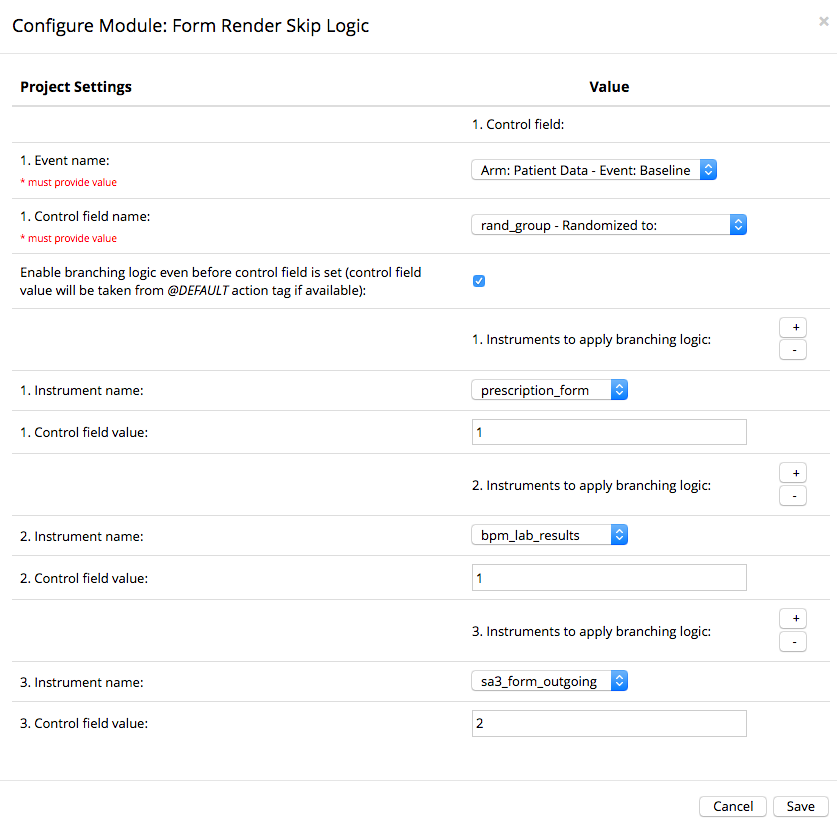
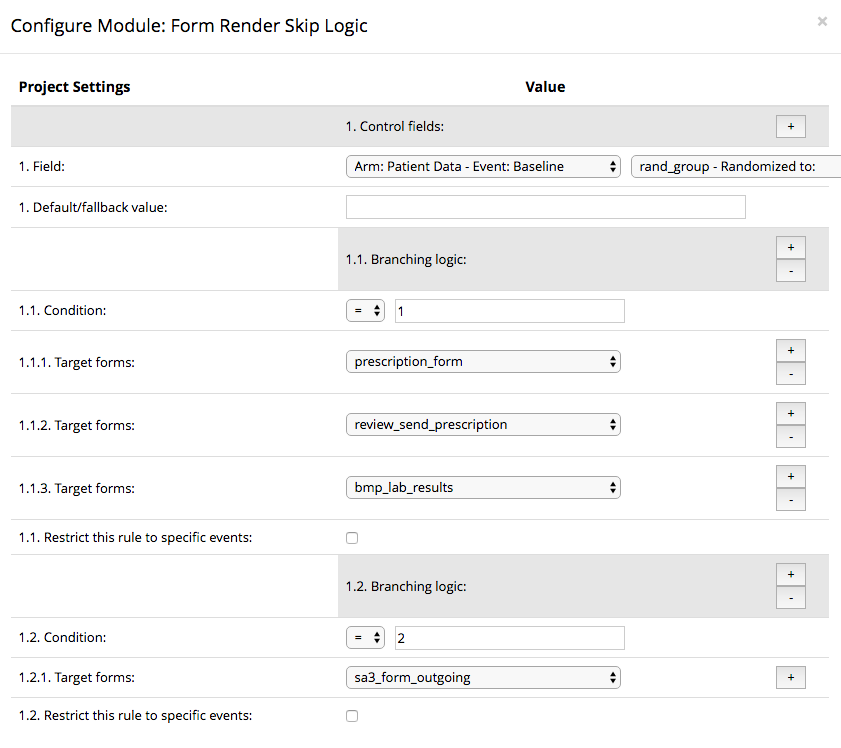
Update description and documentation to reflect the support for multiple control fields

diff --git a/README.md b/README.md
@@ -1,31 +1,47 @@
 # REDCap Form Render Skip Logic (FRSL)
 
-This REDCap module hides and shows instruments based on the value of a single field on a single form - i.e. a branching logic for instruments.
+This REDCap module hides and shows instruments based on the values of REDCap form fields  i.e. a branching logic for instruments. 
 
 ## Motivation
-The original use case of this tool was to facilitate a data entry workflow specific to acute brain injury diagnoses, but the tools is generalized to support the hiding (and showing) of any number of forms based on a field value on one form.
 
-![venn diagram of test project forms](img/venn_diagram_of_test_project_forms.png)
+The original use case of this tool was to facilitate a data entry workflow specific to acute brain injury diagnoses, but the tool is generalized to support the hiding (and showing) of any number of forms based on a field value. Multiple control fields can be defined to control the display of non-overlapping sets of forms. Here is an example based loosely on a multi-site trial:
 
-See the functional specification at [https://docs.google.com/document/d/1Ej7vCNpKOrC6X9KVpkZkHeY0v2VqQXrjuMIBQtbj1bw/edit#](https://docs.google.com/document/d/1Ej7vCNpKOrC6X9KVpkZkHeY0v2VqQXrjuMIBQtbj1bw/edit) for functional details.
+![venn diagram of test project forms](img/venn_diagram_of_forms_controls_and_conditions.png)
+
+See the original functional specification at [https://docs.google.com/document/d/1Ej7vCNpKOrC6X9KVpkZkHeY0v2VqQXrjuMIBQtbj1bw/edit#](https://docs.google.com/document/d/1Ej7vCNpKOrC6X9KVpkZkHeY0v2VqQXrjuMIBQtbj1bw/edit) for functional details.
 
 ## Prerequisites
-- REDCap >= 8.0.3
+- REDCap >= 8.4.3
 
-## Installation
-- Clone this repo into to `<redcap-root>/modules/form_render_skip_logic_v<version_number>`.
-- Go to **Control Center > Manage External Modules** and enable Form Render Skip Logic.
+## Easy Installation
+- Obtain this module from the Consortium [REDCap Repo] (https://redcap.vanderbilt.edu/consortium/modules/index.php) from the control center.
+
+## Manual Installation
+- Clone this repo into `<redcap-root>/modules/form_render_skip_logic_v0.0.0`.
+- Go to **Control Center > External Modules** and enable Form Render Skip Logic.
 - For each project you want to use this module, go to the project home page, click on **Manage External Modules** link, and then enable Form Render Skip Logic for that project.
 
 ## Configuration
-Access **Manage External Modules** section of your project, click on Form Render Skip Logic's configure button, and save settings in order to show or hide instruments according to your needs. This process is very similar to REDCap branching logic.
+Access **Manage External Modules** section of your project, click on Form Render Skip Logic's configure button, and save settings in order to show or hide instruments according to your needs.
 
-The first entries in the form configuration set the Control Field.  The control field is described by an event name and a field name.  Together these two values define the precise which variable controls which set of forms will be displayed.
+The top level entry in the configuration is a Control Field.  A control field is described by an event name and a field name.  Each control field can govern the display of a set of forms. You can define multiple control fields as long as each controls a separate set of forms.
 
-The subsequent checkbox field determines whether to enable Form Render Skip Logic when your control field value is not saved yet. If checked, control field's `@DEFAULT` action tag is used as default value. If `@DEFAULT` action tag is not available, the control field is considered empty.
+Each control field can have multiple conditions. Each condition compares the control field to a numeric value. Becareful that the conditions are mutually exclusive or the results could be unexpected.
 
-The subsequent configuration fields name forms that should be displayed for particular values of the control field. Add an entry nameing a form and the control field value for each form that needs to be limited to certain control field values.  You can add as many pairs for form name and file value as you need.  All forms _not_ named will be displayed at all times.
+Each condition can have forms that are displayed when the condition is met.  All forms _not_ named will be displayed at all times. Optionally, each condition can specify a list of events that restrict the behavior of this rule.
 
-The image below shows a sample configuration where the control field is named `rand_group` and appears on the `Baseline` event of the `Patient Data` arm.  The first two forms will be displayed only when `rand_group = 1`. The last form will be displayed only when `rand_group = 2`.
+Each control field can optionally specify a fallback value to be passed to the conditions when the control field is empty. This allows for a "default display" of the forms controlled by that control field.
+
+The image below shows a sample configuration where the control field is named `rand_group` and appears on the `Baseline` event of the `Patient Data` arm.  The first three forms will be displayed only when `rand_group = 1`. The last form will be displayed only when `rand_group = 2`.
 
 ![module configuration screen](img/configuration_form.png)
+
+## Upgrading From Version 2.x - 3.x
+
+Note that version 3.0.0 introduced a breaking change in the configuration. To execute the upgrade you will need to follow these steps:
+
+* Note the projects that use FRSL
+* Record the configuration of each project
+* Erase the configuration of each project
+* Upgrade FRSL to 3.x
+* Re-enter the configuration for each project
